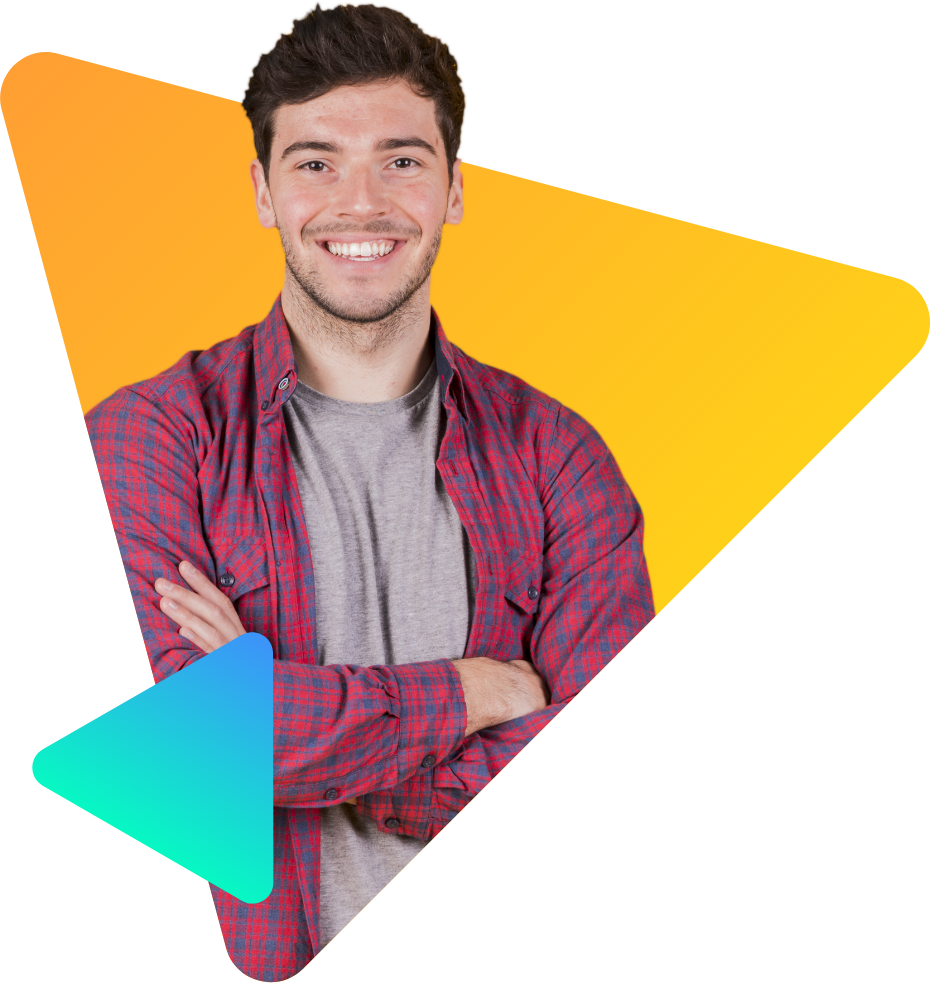
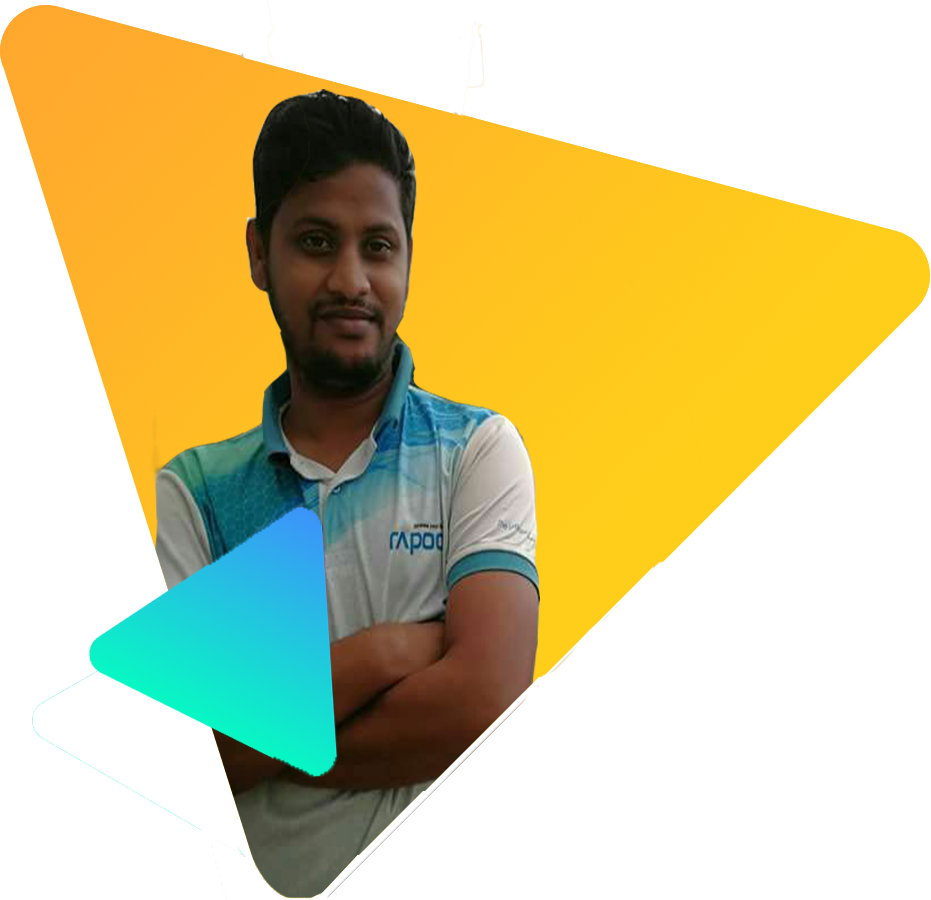
updated parsonal website

diff --git a/index.html b/index.html
@@ -1,0 +1,80 @@
+<!DOCTYPE html>
+<html lang="en">
+<head>
+    <meta charset="UTF-8">
+    <meta name="viewport" content="width=device-width, initial-scale=1.0">
+    <title>Personal Web-site</title>
+    <link rel="stylesheet" href="style.css">
+    <link href="https://fonts.googleapis.com/css2?family=Fondamento&display=swap" rel="stylesheet">
+</head>
+<body>
+    <section class="top">
+        <div class="half-weight top-dwon">
+          
+            <h2>Hello I'am <br><span class="name-highlight">Wahidur Rahman</span></h2>
+            <p>Lorem ipsum dolor sit amet consectetur adipisicing elit. Voluptates non quibusdam eos veritatis assumenda omnis sunt itaque eveniet dolores rerum, dolor ducimus iusto vitae quidem deserunt voluptatem repellendus, nostrum inventore dignissimos alias hic ipsam praesentium beatae tempora. 
+            </p>
+            <br>
+            <a class="batton" terget="_blank" href="https://www.youtube.com/">Heir ME</a>
+        </div>
+        <div class="half-weight">
+            <img src="images/peter.png" alt="">
+
+        </div>
+        <div class="clear"></div>
+
+    </section>
+    
+    <section class="middle-bg">
+        <div class="half-weight">
+            <img src="images/peter.png" alt="">
+        </div>
+        <div class="half-weight  top-dwon">
+            <h2>Biography</h2>
+            <p>Lorem ipsum dolor sit amet consectetur adipisicing elit. Voluptates non quibusdam eos veritatis assumenda omnis sunt itaque eveniet dolores rerum, dolor ducimus iusto vitae quidem deserunt voluptatem repellendus, nostrum inventore dignissimos alias hic ipsam praesentium beatae tempora. 
+            </p>
+            <br>
+            <a class="batton" terget="_blank" href="https://www.youtube.com/">CV Dawnlood</a>
+            
+        </div>
+        <div class="clear"></div>
+    </section>
+    
+    <section class="leatest">
+        <div class="image-gallary">
+            <h3>My latest work</h3>
+            <div class="image-box">
+                <img src="images/latest-work/work-1.png" alt="">
+            </div>
+            <div class="image-box">
+                <img src="images/latest-work/work-2.jpg" alt="">
+            </div>
+            <div class="image-box">
+                <img src="images/latest-work/work-3.jpg" alt="">
+            </div>
+            <div class="clear"></div>
+            <div class="clint-section">
+                <h3>What Clint Say</h3>
+                <h4>Bruce Mackey
+                </h4>
+                <p class="Owner">Seo and Founder</p>
+                <p id="text">Lorem, ipsum dolor sit amet consectetur<br> adipisicing elit.  Aliquam, dolore in nisi fuga iusto rerum neque,</p>
+                
+            </div>
+            
+            
+        </div>
+        <div class="clear"></div>
+    </section>
+    
+    <section class="sand">
+        <div class="massge-me">
+            <span class="link-details">Leave me massesge in the 
+            </span> <br>
+            <a href="#">wahudurrahman@gmail.com</a>
+            
+        </div>
+    </section>
+    <footer>Wahidur rahmann &#169; 2020 copywrite reserved</footer>
+</body>
+</html>

diff --git a/style.css b/style.css
@@ -1,0 +1,142 @@
+*{
+    margin: 0px;
+    padding: 0px;
+    font-family: 'Fondamento', cursive;
+}
+body{
+    max-width: 80%;
+    height: 100%;
+    margin: 0px auto;
+
+}
+
+.top{
+    background-image: url(images/header-bg.png);
+    background-size: 100% 100%;
+   
+}
+.middle-bg{
+    background-image: url(images/biography-bg.png);
+    background-size: 100% 100%;
+    
+}
+h2{
+    font-size: 30px;
+}
+.half-weight{
+    
+    width: 40%;
+    height: 80%;
+    padding: 2%;
+    margin-left: 3%;
+    float: left;
+    text-align: left;
+    height: 80%;
+    
+}
+
+.top-dwon{
+    margin-top: 5%;
+}
+
+.name-highlight{
+    color: rgb(226, 43, 202);
+}
+p{
+    text-align: justify;
+    color: dimgray;
+    font-size: 12px;
+}
+a{
+    text-decoration: none;
+    color: white;
+}
+.batton{
+    background-image: linear-gradient(40deg,rgb(226, 43, 202), rgba(216, 115, 211, 0.856) );
+    color: white;
+    text-decoration: none;
+    font-size: 15px;
+    padding: 5px 20px;
+    border-radius: 5px;
+
+}
+img{
+    width: 80%;
+}
+section{
+    padding: 5%;
+    
+    
+}
+.clear{
+    clear: both; 
+    height: 0px; 
+    padding: 0px;
+   }
+.leatest{
+    margin: auto;
+    background-image: url(images/latest-work-bg.png);
+    background-size: 100% 100%;
+
+    
+}
+h3{
+    text-align: center;
+    font-size: 30px;
+    padding: 10px;
+}
+h4{
+    text-align: center;
+    margin-top: 50px;
+}
+.image-gallary{
+    margin: auto;
+}
+.image-box{
+    width: 33%;
+    border-radius: 10px;
+    margin-top: 30px;
+    float: left;
+}
+.clint-section{
+    margin-top: 150px;
+    
+
+}
+.Owner{
+    
+    text-align: center;
+}
+#text{
+    text-align: center;
+    color: black;
+    margin-top: 30px;
+}
+.massge-me{
+    margin: auto;
+    background-image: linear-gradient(40deg,rgb(226, 43, 202), rgba(216, 115, 211, 0.856) );
+    text-align: center;
+    padding-top: 15px;
+    border-radius: 10px;
+    width: 34%;
+    height: 80px;
+    color: white;
+    
+}
+.sand{
+    
+    padding: 0px;
+}
+.sand a{
+    font-size: 30px;
+}
+footer{
+    text-align: center;
+    font-size: 12px;
+    margin-top: 100px;
+    padding: 20px;
+}
+
+.link-details{
+    font-size: 15px;
+}
